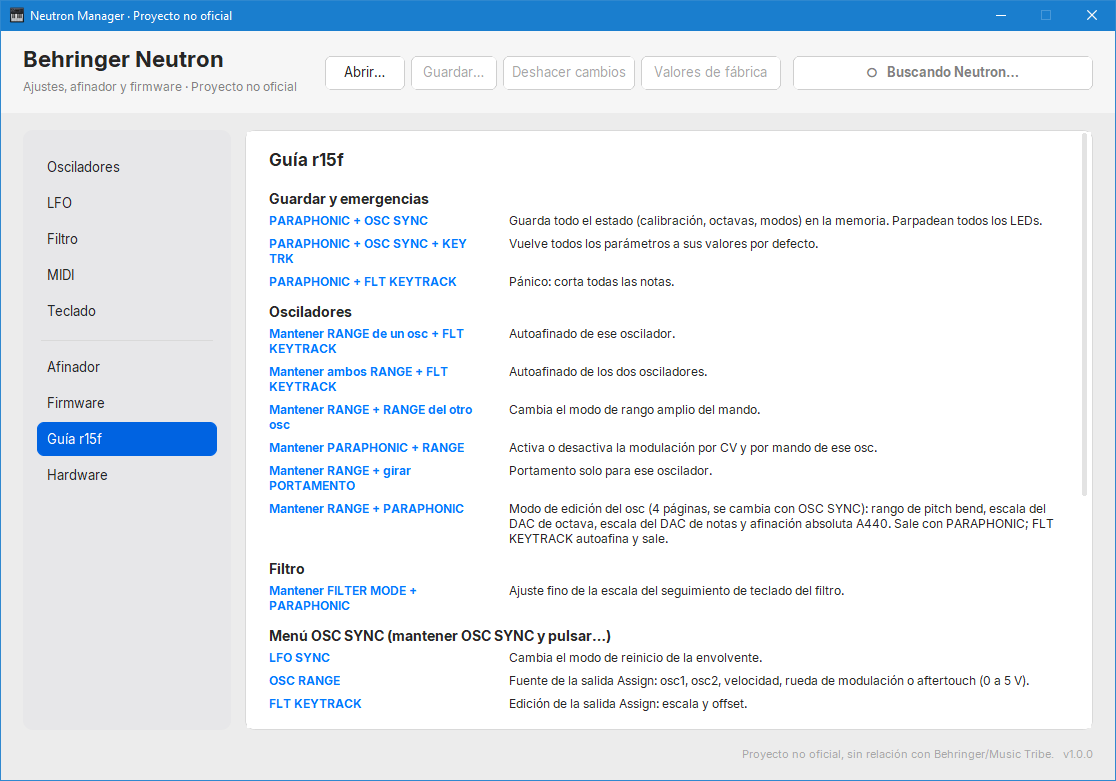
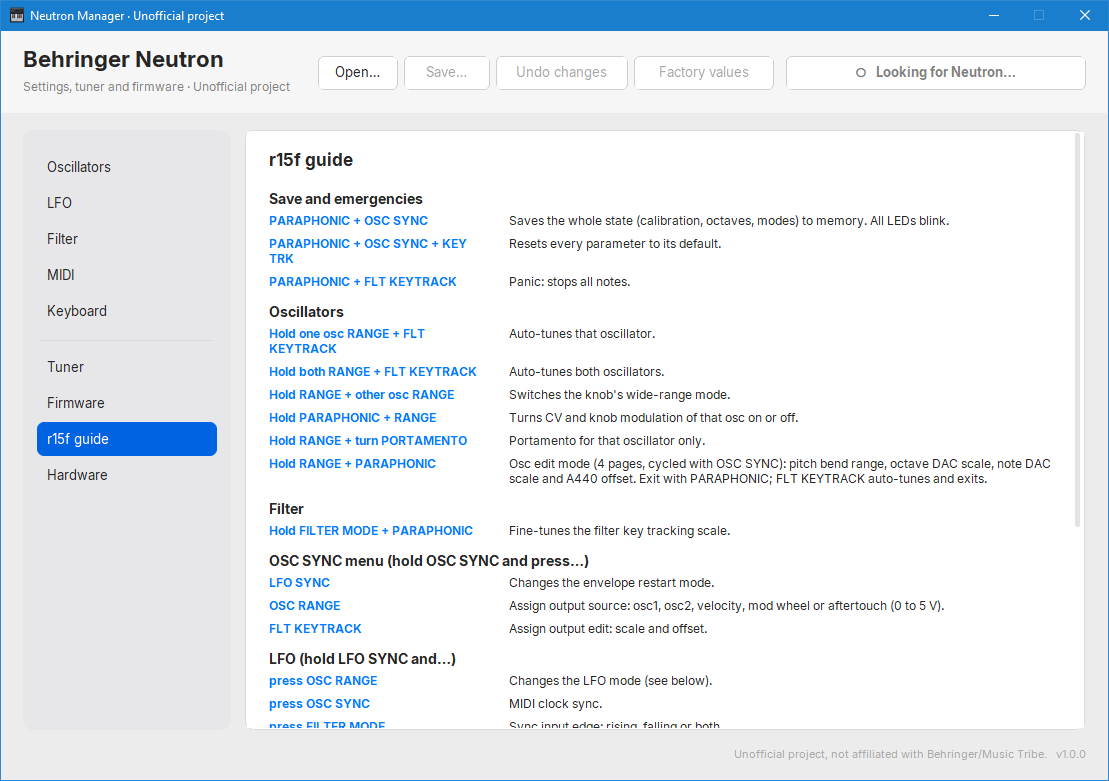
README: single English screenshot

diff --git a/README.md b/README.md
@@ -31,8 +31,6 @@ Get **Neutron Manager.exe** from the [latest release](https://github.com/nexusho
 * **r15f guide**: every button combination of the alternative firmware, since r15f has no USB or SysEx.
 * Save and open settings as JSON. Spanish and English, from the Windows language.
 
-![Firmware tab](docs/firmware.png)
-
 ## Documents
 
 | File | What it contains |
